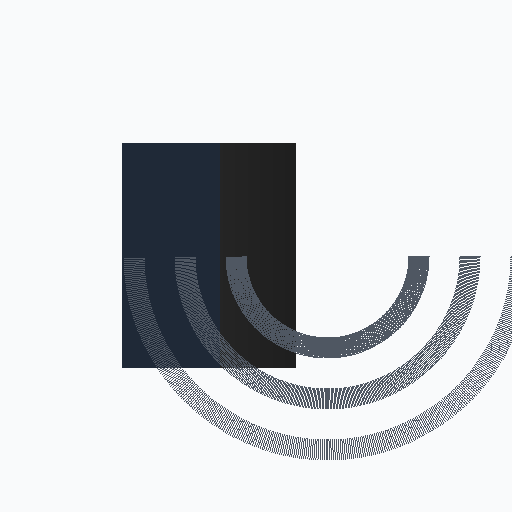
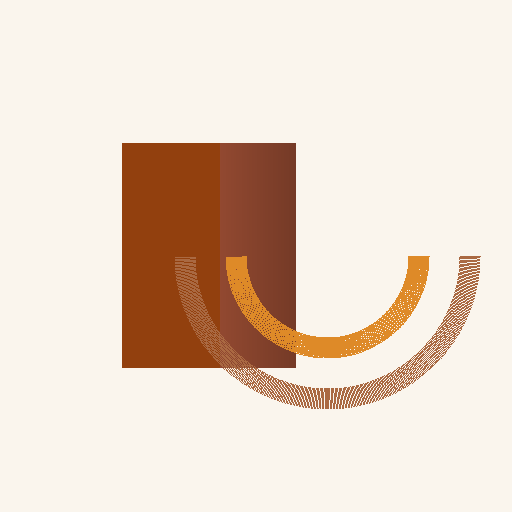
First legit version with clay theme complete (#3)
* Initial new changes

* more updates

* more changes

* adding mroe changes

* font upgrades

* Updaitng typography

* removing periods at the end of sentences

* wave updates

* Fixing message positioning

* Fixing settings sliders not working

Changed region(s): [[0.2188, 0.2812, 1.0, 0.9062]]

diff --git a/frontend/src/App.tsx b/frontend/src/App.tsx
@@ -24,11 +24,9 @@ function App() {
   const [successMessage, setSuccessMessage] = useState<string>('');
   const defaultTheme =
     THEME_PRESETS.find((preset) => preset.id === 'clay') ?? THEME_PRESETS[0];
-  const [selectedThemeId, setSelectedThemeId] = useState<string>(defaultTheme.id);
   const importInputRef = useRef<HTMLInputElement | null>(null);
 
-  const theme: ThemePreset =
-    THEME_PRESETS.find((preset) => preset.id === selectedThemeId) ?? defaultTheme;
+  const theme: ThemePreset = defaultTheme;
 
   useEffect(() => {
     const loadEffects = async () => {
@@ -66,7 +64,7 @@ function App() {
     try {
       const response = await audioAPI.uploadFile(file);
       setFileId(response.file_id);
-      setSuccessMessage('File uploaded successfully!');
+      setSuccessMessage('File uploaded successfully');
     } catch (err: any) {
       const errorMessage = err.response?.data?.detail || err.message || 'Failed to upload file';
       setError(`Upload failed: ${errorMessage}`);
@@ -103,7 +101,7 @@ function App() {
     setError('');
 
     if (!fileId) {
-      setSuccessMessage('Effects cleared.');
+      setSuccessMessage('Effects cleared');
       return;
     }
 
@@ -117,7 +115,7 @@ function App() {
       }
     }
 
-    setSuccessMessage('Effects cleared. Processed audio removed.');
+    setSuccessMessage('Effects cleared. Processed audio removed');
   };
 
   const handleExportEffects = () => {
@@ -142,7 +140,7 @@ function App() {
       document.body.removeChild(anchor);
       URL.revokeObjectURL(url);
 
-      setSuccessMessage('Effect settings exported successfully.');
+      setSuccessMessage('Effect settings exported successfully');
       setError('');
     } catch (err) {
       console.error('Export failed:', err);
@@ -242,13 +240,33 @@ function App() {
 
       <main className={cn('max-w-6xl mx-auto px-6 py-6 space-y-6')}>
         {error && (
-          <div className="p-3 bg-red-500/10 border border-red-400/40 text-red-200 rounded-lg text-sm">
-            {error}
+          <div className="group p-3 bg-red-500/10 border border-red-400/40 text-red-200 rounded-lg text-sm">
+            <div className="flex items-center justify-between gap-3">
+              <p className="leading-snug flex-1">{error}</p>
+              <button
+                type="button"
+                className="flex-shrink-0 text-red-200/80 hover:text-red-100 opacity-0 group-hover:opacity-100 transition-opacity duration-200"
+                aria-label="Dismiss error message"
+                onClick={() => setError('')}
+              >
+                ✕
+              </button>
+            </div>
           </div>
         )}
         {successMessage && (
-          <div className={cn('rounded-3xl p-5 transition-colors duration-300 border', theme.audioPanelClass)}>
-            <p className='text-sm font-medium text-slate-800 dark:text-slate-100'>{successMessage}</p>
+          <div className={cn('group rounded-2xl px-4 py-4 transition-colors duration-300 border', theme.audioPanelClass)}>
+            <div className="flex items-center justify-between gap-3">
+              <p className={cn('text-xs leading-snug flex-1', theme.mutedTextClass)}>{successMessage}</p>
+              <button
+                type="button"
+                className="flex-shrink-0 text-slate-500 dark:text-slate-300 hover:text-slate-700 dark:hover:text-slate-100 opacity-0 group-hover:opacity-100 transition-opacity duration-200"
+                aria-label="Dismiss message"
+                onClick={() => setSuccessMessage('')}
+              >
+                ✕
+              </button>
+            </div>
           </div>
         )}
 
@@ -266,7 +284,7 @@ function App() {
           </div>
 
           <div className={theme.mainWrapperClass}>
-            <div className={cn('rounded-3xl p-6 space-y-5 transition-colors duration-300 border', theme.mainPanelClass)}>
+            <div className={cn('rounded-3xl p-6 space-y-4 transition-colors duration-300 border', theme.mainPanelClass)}>
               {!uploadedFile ? (
                 <FileUpload onFileSelected={handleFileSelected} isProcessing={isProcessing} theme={theme} />
               ) : (
@@ -294,7 +312,7 @@ function App() {
                         Reset
                       </button>
                     </div>
-                    <p className={cn('text-xs text-slate-700 dark:text-slate-200', theme.mutedTextClass)}>
+                    <p className={cn('text-xs leading-snug', theme.mutedTextClass)}>
                       Process renders the current chain against the uploaded audio. Export your chain to
                       reuse settings across sessions or in code.
                     </p>

diff --git a/frontend/src/components/EffectChain.tsx b/frontend/src/components/EffectChain.tsx
@@ -1,4 +1,4 @@
-import { useState } from 'react';
+import { useState } from 'react';
 import type { DragEvent } from 'react';
 import type { EffectConfig, AvailableEffects, EffectParam } from '../types';
 import EffectControl from './EffectControl';
@@ -38,11 +38,16 @@ const defaultValueForParam = (paramDef: EffectParam): any => {
   }
 };
 
-const isInteractiveElement = (element: HTMLElement | null): boolean => {
+const isDragHandle = (element: HTMLElement | null): boolean => {
   if (!element) return false;
-  return Boolean(
-    element.closest('input, select, textarea, button, [role="slider"], [contenteditable="true"]'),
-  );
+
+  // Don't allow dragging from buttons
+  if (element.tagName?.toUpperCase() === 'BUTTON' || element.closest('button')) {
+    return false;
+  }
+
+  // Check if this element or any parent is the drag handle (the header area)
+  return Boolean(element.closest('[data-drag-handle="true"]'));
 };
 
 export default function EffectChain({
@@ -90,7 +95,18 @@ export default function EffectChain({
   };
 
   const handleDragStart = (id: string) => (event: DragEvent<HTMLDivElement>) => {
-    if (isInteractiveElement(event.target as HTMLElement)) {
+    const target = event.target as HTMLElement;
+    const isHandle = isDragHandle(target);
+
+    console.log('Drag attempt:', {
+      target: target.tagName,
+      className: target.className,
+      isHandle,
+      hasDragHandleAttr: Boolean(target.closest('[data-drag-handle="true"]')),
+    });
+
+    // Only allow dragging if started from the drag handle (the header area)
+    if (!isHandle) {
       event.preventDefault();
       return;
     }
@@ -162,7 +178,7 @@ export default function EffectChain({
   const hasEffects = effects.length > 0;
 
   return (
-    <div className={cn(panelClass, 'space-y-3 pb-6')}>
+    <div className={cn(panelClass, 'space-y-3 pt-6 pb-6')}>
       <div className="space-y-1.5">
         <select
           value={selectedEffectType}
@@ -256,8 +272,8 @@ export default function EffectChain({
             })}
           </div>
 
-          <p className={cn('mt-3 text-[11px] text-slate-700 dark:text-slate-200', theme.mutedTextClass)}>
-            Drag any effect card to change its position. The chain updates as you move.
+          <p className={cn('mt-3 text-xs leading-snug', theme.mutedTextClass)}>
+            Drag the header of any effect to change its position. The chain updates as you move.
           </p>
         </>
       )}

diff --git a/frontend/src/utils/colors.ts b/frontend/src/utils/colors.ts
@@ -117,24 +117,24 @@ export const getWaveProgressColor = (color: string): string => {
   const rgb = parseColor(color);
   if (!rgb) return 'rgba(20, 32, 56, 0.96)';
 
-  const darkAnchor: RgbColor = { r: 16, g: 24, b: 39 };
-  const lightAnchor: RgbColor = { r: 236, g: 240, b: 247 };
+  const darkAnchor: RgbColor = { r: 124, g: 45, b: 18 };
+  const lightAnchor: RgbColor = { r: 232, g: 121, b: 33 };
   const luminance = relativeLuminance(rgb);
 
   if (luminance >= 0.6) {
-    const emphasis = mixRgb(rgb, darkAnchor, 0.68);
-    return toRgbaString(emphasis, 0.98);
+    const emphasis = mixRgb(rgb, darkAnchor, 0.8);
+    return toRgbaString(emphasis, 0.88);
   }
 
   if (luminance <= 0.25) {
-    const emphasis = mixRgb(rgb, lightAnchor, 0.32);
-    return toRgbaString(emphasis, 0.9);
+    const emphasis = mixRgb(rgb, lightAnchor, 0.45);
+    return toRgbaString(emphasis, 0.85);
   }
 
   const anchor = luminance > 0.45 ? darkAnchor : lightAnchor;
-  const amount = luminance > 0.45 ? 0.55 : 0.4;
+  const amount = luminance > 0.45 ? 0.7 : 0.55;
   const target = mixRgb(rgb, anchor, amount);
-  const alpha = luminance > 0.45 ? 0.95 : 0.92;
+  const alpha = luminance > 0.45 ? 0.88 : 0.85;
   return toRgbaString(target, alpha);
 };
 

diff --git a/frontend/src/components/AudioPlayer.tsx b/frontend/src/components/AudioPlayer.tsx
@@ -1,8 +1,8 @@
-import { useEffect, useMemo, useRef, useState } from 'react';
+import { useEffect, useMemo, useRef, useState } from 'react';
 import WaveSurfer from 'wavesurfer.js';
 import type { ThemePreset } from '../theme-presets';
 import { cn } from '../utils/classnames';
-import { getMutedWaveColor, getWaveProgressColor } from '../utils/colors';
+import { getMutedWaveColor } from '../utils/colors';
 
 interface AudioPlayerProps {
   audioFile: File | string;
@@ -17,8 +17,12 @@ export default function AudioPlayer({ audioFile, title, theme }: AudioPlayerProp
   const [duration, setDuration] = useState<number>(0);
   const [currentTime, setCurrentTime] = useState<number>(0);
 
-  const waveColor = useMemo(() => getMutedWaveColor(theme.waveColor), [theme.waveColor]);
-  const waveProgressColor = useMemo(() => getWaveProgressColor(theme.waveProgressColor), [theme.waveProgressColor]);
+  const accentColor = theme.accentColor ?? theme.waveProgressColor;
+  const waveColor = useMemo(
+    () => getMutedWaveColor(theme.waveColor ?? accentColor),
+    [theme.waveColor, accentColor],
+  );
+  const waveProgressColor = useMemo(() => accentColor, [accentColor]);
 
   useEffect(() => {
     if (!waveformRef.current) return;

diff --git a/frontend/src/components/EffectControl.tsx b/frontend/src/components/EffectControl.tsx
@@ -181,8 +181,8 @@ export default function EffectControl({
 
   return (
     <div className={cn('p-3 transition-colors duration-200', className)}>
-      <div className="flex items-start justify-between mb-2">
-        <div>
+      <div className="flex items-start justify-between mb-2 cursor-move" data-drag-handle="true" draggable="true">
+        <div className="flex-1">
           <h4 className={cn('text-xs font-semibold', theme.headingTextClass)}>{definition.name}</h4>
           <p className={cn('text-xs', theme.mutedTextClass)}>{definition.description}</p>
           {definition.tags && definition.tags.length > 0 && (
@@ -203,7 +203,7 @@ export default function EffectControl({
         </div>
         <button
           onClick={onRemove}
-          className={cn('ml-2 transition-colors', theme.mutedTextClass, 'hover:text-red-400')}
+          className={cn('ml-2 transition-colors flex-shrink-0', theme.mutedTextClass, 'hover:text-red-400')}
           title="Remove"
         >
           <svg className="w-4 h-4" fill="none" stroke="currentColor" viewBox="0 0 24 24">

diff --git a/frontend/src/theme-presets.ts b/frontend/src/theme-presets.ts
@@ -392,9 +392,9 @@ export const THEME_PRESETS: ThemePreset[] = [
     dropzoneDisabledClass: "opacity-40 cursor-not-allowed",
     audioPanelClass: "bg-white border border-stone-200 rounded-none shadow-lg",
     audioPlayButtonClass: "bg-amber-700 hover:bg-amber-800 text-white uppercase tracking-[0.15em] px-6 py-2.5 rounded-none shadow-sm hover:shadow-md transition-shadow",
-    accentColor: "#92400e",
+    accentColor: "#b45309",
     waveColor: "#fef3c7",
-    waveProgressColor: "#92400e",
+    waveProgressColor: "#b45309",
     effectListClass: "space-y-3",
     effectListEmptyClass: "text-center py-12 text-sm uppercase tracking-[0.3em] text-amber-700",
     mainInnerClass: "space-y-8",
